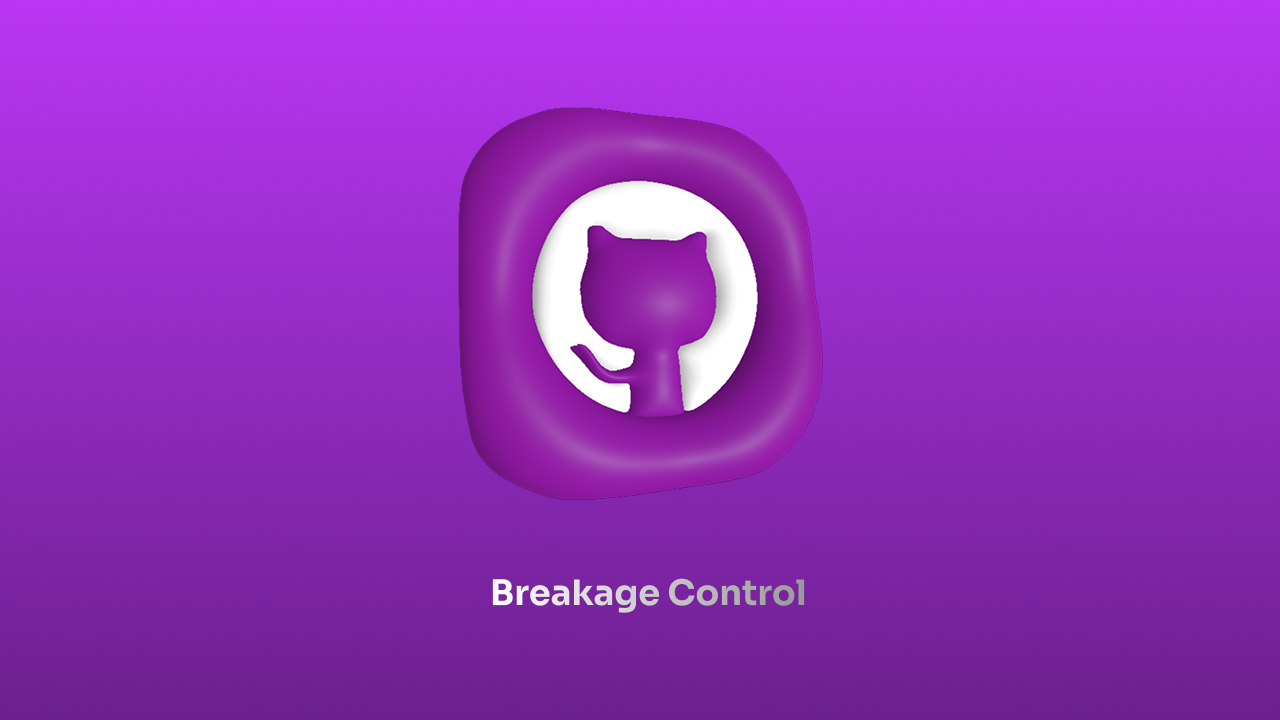
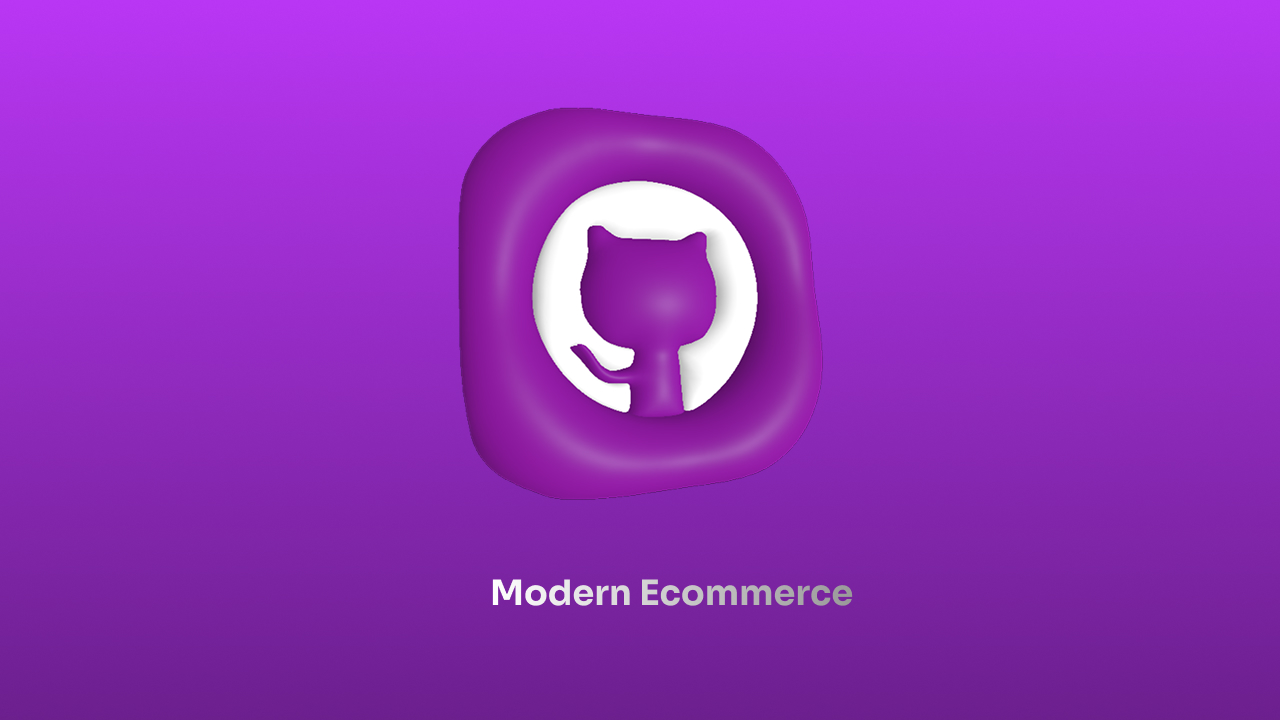
Adicionando novo projeto ao portfolio

Changed region(s): [[0.375, 0.7944, 0.6875, 0.8556]]

diff --git a/components/WorkSlider.jsx b/components/WorkSlider.jsx
@@ -15,7 +15,7 @@ const workSlides = {
     {
       images: [
         { title: "title", path: "/thumb1.jpg", link: "https://alfredo-allan.github.io/My-Make-System/" },
-        { title: "title", path: "/thumb2.jpg", link: "https://breakage-control.vercel.app/" },
+        { title: "title", path: "/thumb2.jpg", link: "https://www.cerejadocemoda.com/" },
         { title: "title", path: "/thumb3.jpg", link: "https://alfredo-allan.github.io/presentation-page/" },
         { title: "title", path: "/thumb4.jpg", link: "https://alfredo-allan.github.io/one-park/" },
       ],
